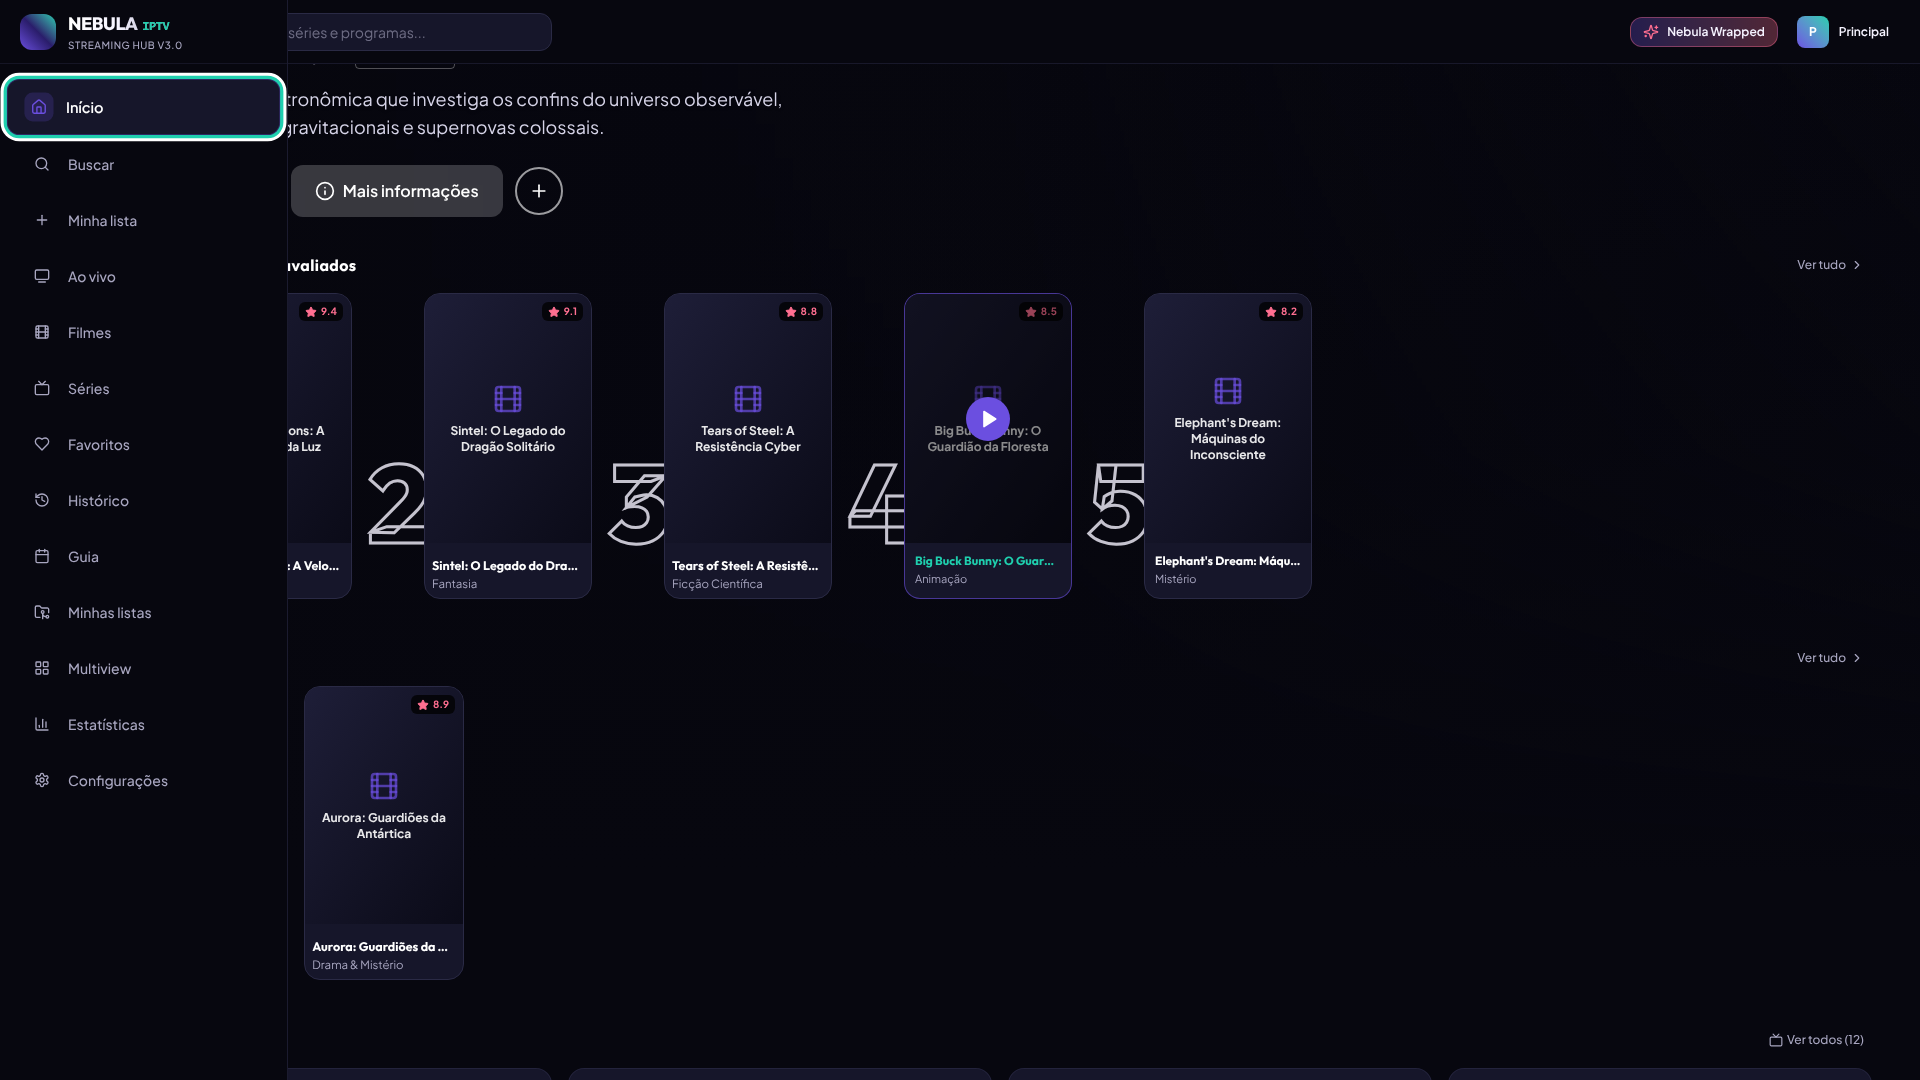
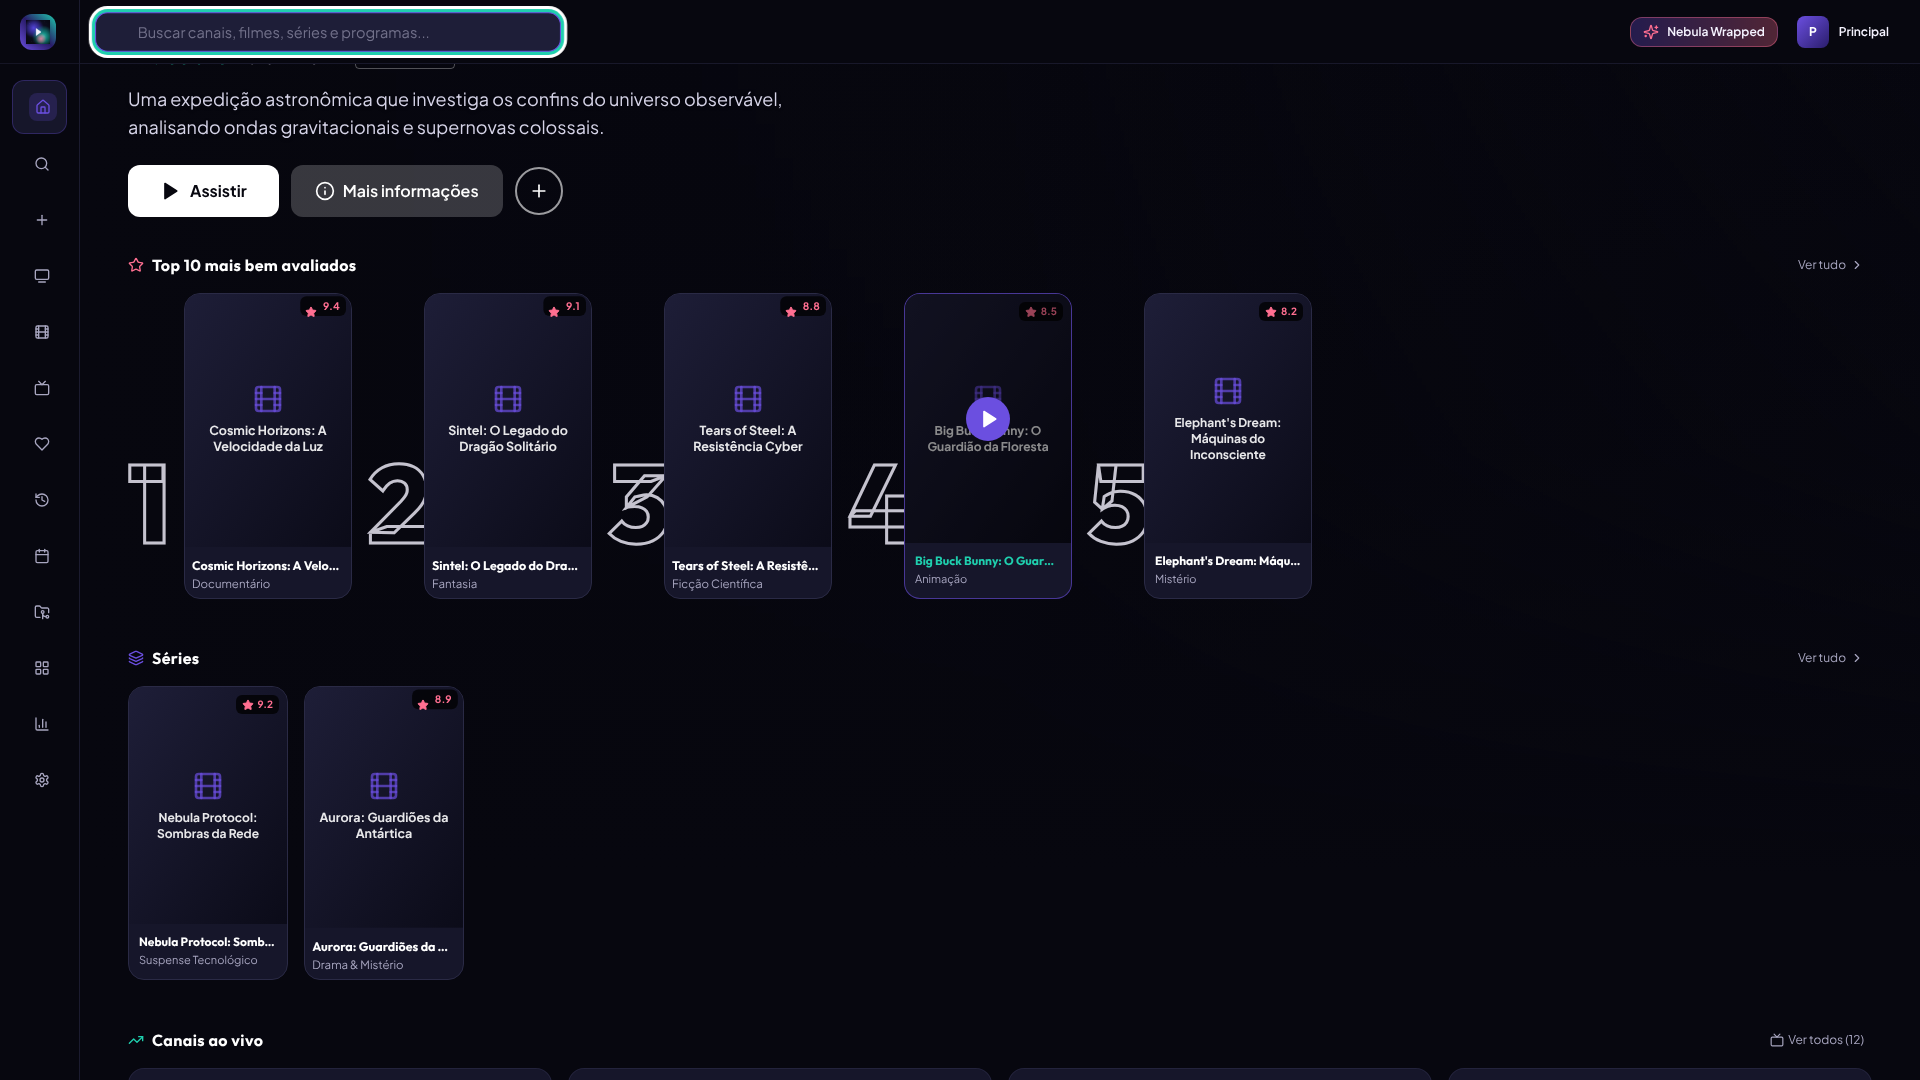
fix(android): crash on live TV, TV-scale layout, old WebView rendering
Found by running the APK on an Android TV 9 emulator (WebView 66):

- Opening a live channel crashed the app (TransactionTooLargeException):
  Capacitor stores the play() call in the saved activity state and the
  zapping list was ~580 KB. The list now goes through setQueue().
- TV WebViews report ~960 px (1080p) or 640 px wide, which triggered the
  phone layout. The TV app lays out at 1280 px, the full TV layout at a
  readable 10-foot scale.
- Posters had zero height (aspect-ratio needs Chrome 88): padding fallback.
- Buttons had a grey system background (Tailwind's :where() reset needs
  Chrome 88): plain-selector reset added.
- Built-in avatars, bundled fonts and logo: nothing depends on the network.
- Native player: no reconnect loop on decoder errors, clear messages,
  channel banner shows the grid number and programme, number keys jump to
  that channel, no duplicate buffering text.
- Remote: focus ring follows any focus change, screens focus their first
  content item, choosing a menu entry hands focus to the content.

Claude-Session: https://claude.ai/code/session_01RRsg5FGcZ64yEQf5JjpUUk

diff --git a/src/components/profiles/ProfileGate.tsx b/src/components/profiles/ProfileGate.tsx
@@ -1,3 +1,5 @@
+import nebulaIcon from '../../../assets/branding/nebula_icon.png';
+import { AVATAR_PRESETS, Avatar } from './Avatar';
 import React, { useState } from 'react';
 import { Plus, Lock, Shield, User, X, Check, Edit2, Trash2 } from 'lucide-react';
 import { useApp } from '../../context/AppContext';
@@ -15,15 +17,8 @@ export const ProfileGate: React.FC = () => {
   const [newName, setNewName] = useState('');
   const [newIsKids, setNewIsKids] = useState(false);
   const [newPin, setNewPin] = useState('');
-  const [newAvatar, setNewAvatar] = useState('https://images.unsplash.com/photo-1534528741775-53994a69daeb?w=150&auto=format&fit=crop&q=80');
-
-  const avatarOptions = [
-    'https://images.unsplash.com/photo-1534528741775-53994a69daeb?w=150&auto=format&fit=crop&q=80',
-    'https://images.unsplash.com/photo-1535713875002-d1d0cf377fde?w=150&auto=format&fit=crop&q=80',
-    'https://images.unsplash.com/photo-1566492031773-4f4e44671857?w=150&auto=format&fit=crop&q=80',
-    'https://images.unsplash.com/photo-1570295999919-56ceb5ecca61?w=150&auto=format&fit=crop&q=80',
-    'https://images.unsplash.com/photo-1507003211169-0a1dd7228f2d?w=150&auto=format&fit=crop&q=80',
-  ];
+  const [newAvatar, setNewAvatar] = useState(AVATAR_PRESETS[0]);
+  const avatarOptions = AVATAR_PRESETS;
 
   const handleProfileClick = (profile: UserProfile) => {
     if (profile.pin) {
@@ -81,7 +76,7 @@ export const ProfileGate: React.FC = () => {
       <div className="flex flex-col items-center mb-10">
         <div className="w-16 h-16 rounded-2xl bg-gradient-to-tr from-[#6B4FE0] via-[#2A1D6B] to-[#1FCFAE] p-2 flex items-center justify-center shadow-xl shadow-[#6B4FE0]/30 mb-3">
           <img
-            src="/assets/branding/nebula_icon.png"
+            src={nebulaIcon}
             alt="Nebula"
             className="w-full h-full object-contain filter drop-shadow"
             onError={(e) => {
@@ -112,11 +107,7 @@ export const ProfileGate: React.FC = () => {
             className="tv-card group flex flex-col items-center cursor-pointer focus:outline-none"
           >
             <div className="relative w-28 h-28 md:w-32 md:h-32 rounded-3xl overflow-hidden border-2 border-transparent group-hover:border-[#6B4FE0] group-hover:scale-105 group-hover:shadow-2xl group-hover:shadow-[#6B4FE0]/40 transition-all duration-300 bg-[#16162A]">
-              <img
-                src={profile.avatar}
-                alt={profile.name}
-                className="w-full h-full object-cover"
-              />
+              <Avatar avatar={profile.avatar} name={profile.name} className="w-full h-full" textClassName="text-5xl" />
 
               {/* Pin indicator */}
               {profile.pin && (
@@ -241,17 +232,17 @@ export const ProfileGate: React.FC = () => {
                 </label>
                 <div className="flex items-center gap-3">
                   {avatarOptions.map((av) => (
-                    <img
+                    <button
+                      type="button"
                       key={av}
-                      src={av}
-                      alt="Avatar"
                       onClick={() => setNewAvatar(av)}
-                      className={`w-12 h-12 rounded-xl object-cover cursor-pointer transition-all ${
-                        newAvatar === av
-                          ? 'border-2 border-[#6B4FE0] scale-110'
-                          : 'opacity-60 hover:opacity-100'
+                      data-tv-title="Escolher avatar"
+                      className={`tv-card rounded-xl overflow-hidden cursor-pointer transition-all focus:outline-none ${
+                        newAvatar === av ? 'ring-2 ring-white scale-110' : 'opacity-60 hover:opacity-100'
                       }`}
-                    />
+                    >
+                      <Avatar avatar={av} name={newName || 'N'} className="w-12 h-12" textClassName="text-lg" />
+                    </button>
                   ))}
                 </div>
               </div>

diff --git a/index.html b/index.html
@@ -2,8 +2,22 @@
 <html lang="pt-BR">
   <head>
     <meta charset="UTF-8" />
-    <link rel="icon" type="image/png" href="/assets/branding/nebula_icon.png" />
+    <link rel="icon" type="image/png" href="/favicon.png" />
     <meta name="viewport" content="width=device-width, initial-scale=1.0" />
+    <meta name="theme-color" content="#07070F" />
+    <script>
+      // TV app: TV WebViews report a small logical width (960 px on a 1080p
+      // Fire TV / Google TV), which would trigger the phone layout. Lay the UI
+      // out at 1280 px instead: full TV layout, 1.5x the desktop scale, which
+      // is readable from the sofa. The WebView scales it to the screen.
+      (function () {
+        var ua = navigator.userAgent || '';
+        var landscape = window.innerWidth >= window.innerHeight;
+        if (ua.indexOf('NebulaTV') !== -1 && landscape) {
+          document.querySelector('meta[name=viewport]').setAttribute('content', 'width=1280, user-scalable=no');
+        }
+      })();
+    </script>
     
     <title>Nebula IPTV</title>
     <meta name="description" content="A modern, responsive IPTV streaming platform featuring Live TV, VOD movies, TV series, multi-view grid, EPG timeline, playlist management (M3U & Xtream Codes), profiles, and remote/TV navigation." />
@@ -12,11 +26,6 @@
     <meta property="og:title" content="Nebula IPTV" />
     <meta property="og:description" content="A modern, responsive IPTV streaming platform featuring Live TV, VOD movies, TV series, multi-view grid, EPG timeline, playlist management (M3U & Xtream Codes), profiles, and remote/TV navigation." />
     <meta property="og:type" content="website" />
-    
-    <!-- Google Fonts Inter & Outfit -->
-    <link rel="preconnect" href="https://fonts.googleapis.com">
-    <link rel="preconnect" href="https://fonts.gstatic.com" crossorigin>
-    <link href="https://fonts.googleapis.com/css2?family=Outfit:wght@400;500;600;700;800&family=Plus+Jakarta+Sans:wght@400;500;600;700&display=swap" rel="stylesheet">
   </head>
   <body class="bg-[#07070F] text-[#F5F3FF] antialiased selection:bg-[#6B4FE0] selection:text-white">
     <div id="root"></div>

diff --git a/src/components/common/TvRemoteOverlay.tsx b/src/components/common/TvRemoteOverlay.tsx
@@ -440,6 +440,20 @@ export const TvRemoteOverlay: React.FC = () => {
   // On a real TV the physical remote is used: the on-screen simulator is only for desktop testing.
   const hideSimulator = isNativeApp() || deviceProfile.isAndroidTv;
 
+  // Focus can also arrive without the remote handler (autoFocus, touch, a
+  // modal opening): mirror it so the focus ring is always visible on TV.
+  useEffect(() => {
+    if (!tvMode) return;
+    const onFocusIn = (e: FocusEvent) => {
+      const el = e.target as HTMLElement | null;
+      if (!el || el === document.body || el.classList.contains('tv-focused')) return;
+      document.querySelectorAll('.tv-focused').forEach((prev) => prev.classList.remove('tv-focused'));
+      el.classList.add('tv-focused');
+    };
+    document.addEventListener('focusin', onFocusIn);
+    return () => document.removeEventListener('focusin', onFocusIn);
+  }, [tvMode]);
+
   // A remote has no pointer: whenever nothing is focused (app start, new screen,
   // a focused button that disappeared, closed modal), put focus on the first
   // thing the user can act on. A light watchdog covers every case.
@@ -450,8 +464,10 @@ export const TvRemoteOverlay: React.FC = () => {
       if (active && active !== document.body && document.body.contains(active)) return;
       const modal = document.querySelector<HTMLElement>('.fixed.inset-0.z-50');
       const target = modal
-        ? modal.querySelector<HTMLElement>('[autofocus], .tv-card, button')
+        ? modal.querySelector<HTMLElement>('[data-autofocus]') || modal.querySelector<HTMLElement>('[autofocus], .tv-card, button')
         : document.querySelector<HTMLElement>('main [data-autofocus]') ||
+          // Content first (cards are not <button>s), then any control.
+          document.querySelector<HTMLElement>('main .tv-card:not(button)') ||
           document.querySelector<HTMLElement>('main .tv-card, main button') ||
           // Screens without the main layout (profile picker)
           document.querySelector<HTMLElement>('[data-autofocus], .tv-card');

diff --git a/src/components/common/Navbar.tsx b/src/components/common/Navbar.tsx
@@ -11,6 +11,7 @@ import {
   Lock,
   X,
 } from 'lucide-react';
+import { Avatar } from '../profiles/Avatar';
 import { useApp } from '../../context/AppContext';
 
 export const Navbar: React.FC = () => {
@@ -28,7 +29,6 @@ export const Navbar: React.FC = () => {
 
   const [showProfileMenu, setShowProfileMenu] = useState(false);
   const [previousTab, setPreviousTab] = useState<string>('home');
-  const [avatarError, setAvatarError] = useState(false);
 
   return (
     <header className="h-16 border-b border-[#2A2A45]/50 bg-[#07070F]/80 backdrop-blur-xl px-6 flex items-center justify-between sticky top-0 z-30">
@@ -91,18 +91,7 @@ export const Navbar: React.FC = () => {
             className="flex items-center gap-2.5 p-1.5 rounded-xl hover:bg-[#16162A] border border-transparent hover:border-[#2A2A45] transition-all cursor-pointer"
           >
             <div className="relative">
-              {!avatarError && activeProfile?.avatar ? (
-                <img
-                  src={activeProfile.avatar}
-                  alt={activeProfile.name}
-                  className="w-8 h-8 rounded-lg object-cover border border-[#6B4FE0]/50"
-                  onError={() => setAvatarError(true)}
-                />
-              ) : (
-                <div className="w-8 h-8 rounded-lg bg-gradient-to-tr from-[#6B4FE0] to-[#1FCFAE] flex items-center justify-center text-white font-bold text-xs">
-                  {activeProfile?.name?.charAt(0) || 'U'}
-                </div>
-              )}
+              <Avatar avatar={activeProfile?.avatar} name={activeProfile?.name || 'U'} className="w-8 h-8 rounded-lg" textClassName="text-xs" />
               {activeProfile?.isKids && (
                 <span className="absolute -bottom-1 -right-1 w-3.5 h-3.5 bg-[#FF6F91] rounded-full border-2 border-[#07070F] flex items-center justify-center text-[8px] font-bold">
                   K

diff --git a/src/components/profiles/Avatar.tsx b/src/components/profiles/Avatar.tsx
@@ -1,0 +1,52 @@
+import React, { useState } from 'react';
+
+/** Built-in avatars: no network needed (TV boxes are often offline or blocked). */
+export const AVATAR_PRESETS = [
+  'preset:0',
+  'preset:1',
+  'preset:2',
+  'preset:3',
+  'preset:4',
+  'preset:5',
+];
+
+const GRADIENTS = [
+  'linear-gradient(135deg, #6B4FE0 0%, #2A1D6B 100%)',
+  'linear-gradient(135deg, #1FCFAE 0%, #0E6B5A 100%)',
+  'linear-gradient(135deg, #FF6F91 0%, #8A2443 100%)',
+  'linear-gradient(135deg, #FFB547 0%, #A3520C 100%)',
+  'linear-gradient(135deg, #3FA9F5 0%, #12406B 100%)',
+  'linear-gradient(135deg, #B06BFF 0%, #FF6F91 100%)',
+];
+
+function presetIndex(avatar: string | undefined, name: string): number {
+  const m = avatar?.match(/^preset:(\d+)$/);
+  if (m) return parseInt(m[1], 10) % GRADIENTS.length;
+  let h = 0;
+  for (const ch of name) h = (h * 31 + ch.charCodeAt(0)) >>> 0;
+  return h % GRADIENTS.length;
+}
+
+interface AvatarProps {
+  avatar?: string;
+  name: string;
+  className?: string;
+  textClassName?: string;
+}
+
+export const Avatar: React.FC<AvatarProps> = ({ avatar, name, className = '', textClassName = 'text-4xl' }) => {
+  const [broken, setBroken] = useState(false);
+  const isImage = !!avatar && !avatar.startsWith('preset:') && !broken;
+  if (isImage) {
+    return <img src={avatar} alt="" onError={() => setBroken(true)} className={`object-cover ${className}`} />;
+  }
+  return (
+    <div
+      className={`flex items-center justify-center font-black text-white select-none ${className}`}
+      style={{ background: GRADIENTS[presetIndex(avatar, name)] }}
+      aria-hidden
+    >
+      <span className={textClassName}>{(name.trim().charAt(0) || '?').toUpperCase()}</span>
+    </div>
+  );
+};

diff --git a/src/components/common/Sidebar.tsx b/src/components/common/Sidebar.tsx
@@ -1,3 +1,4 @@
+import nebulaIcon from '../../../assets/branding/nebula_icon.png';
 import React from 'react';
 import {
   Home,
@@ -59,7 +60,7 @@ export const Sidebar: React.FC = () => {
       <div className="h-16 px-5 flex items-center gap-3 border-b border-[#2A2A45]/40">
         <div className="w-9 h-9 rounded-xl bg-gradient-to-tr from-[#6B4FE0] via-[#2A1D6B] to-[#1FCFAE] flex items-center justify-center shadow-lg shadow-[#6B4FE0]/25 overflow-hidden p-1.5">
           <img
-            src="/assets/branding/nebula_icon.png"
+            src={nebulaIcon}
             alt="Nebula"
             className="w-full h-full object-contain filter drop-shadow"
             onError={(e) => {
@@ -88,7 +89,11 @@ export const Sidebar: React.FC = () => {
               key={item.id}
               data-tv-title={`Menu: ${item.label}`}
               data-active={isActive ? 'true' : undefined}
-              onClick={() => setActiveTab(item.id)}
+              onClick={() => {
+                setActiveTab(item.id);
+                // TV: choosing a section hands focus to its content and folds the rail.
+                if (rail) (document.activeElement as HTMLElement | null)?.blur();
+              }}
               className={`tv-card w-full flex items-center justify-between rounded-xl font-medium ${rail ? 'px-4 py-3 text-sm' : 'px-3.5 py-2.5 text-xs'} transition-all cursor-pointer group focus:outline-none ${
                 isActive
                   ? 'bg-[#16162A] text-white font-semibold shadow-inner border border-[#6B4FE0]/30'

diff --git a/src/platform/nativePlayer.ts b/src/platform/nativePlayer.ts
@@ -13,6 +13,8 @@ export interface NativeQueueItem {
   url: string;
   logoUrl?: string;
   subtitle?: string;
+  /** Channel number as shown in the channel grid (1-based). */
+  number?: number;
 }
 
 export interface NativePlayOptions {
@@ -43,7 +45,8 @@ export interface NativePlayResult {
 }
 
 interface NebulaPlayerPlugin {
-  play(options: NativePlayOptions): Promise<NativePlayResult>;
+  setQueue(options: { queue: NativeQueueItem[] }): Promise<void>;
+  play(options: Omit<NativePlayOptions, 'queue'>): Promise<NativePlayResult>;
   isVoiceSearchAvailable(): Promise<{ available: boolean }>;
   voiceSearch(): Promise<{ text: string }>;
 }
@@ -54,8 +57,11 @@ export function canUseNativePlayer(): boolean {
   return isNativeApp();
 }
 
-export function playNative(options: NativePlayOptions): Promise<NativePlayResult> {
-  return NebulaPlayer.play(options);
+export async function playNative(options: NativePlayOptions): Promise<NativePlayResult> {
+  const { queue, ...rest } = options;
+  // The channel list travels separately: see setQueue in NebulaPlayerPlugin.java.
+  await NebulaPlayer.setQueue({ queue: queue ?? [] });
+  return NebulaPlayer.play(rest);
 }
 
 /** Speech recognition through the TV's system service (Google TV / Android TV). */

diff --git a/src/index.css b/src/index.css
@@ -1,4 +1,18 @@
 @tailwind base;
+
+/* Tailwind 3.4's reset writes these with :where(), which WebViews older than
+   Chrome 88 drop entirely (buttons then get the grey system background). */
+button,
+[type='button'],
+[type='reset'],
+[type='submit'] {
+  -webkit-appearance: button;
+  background-color: transparent;
+  background-image: none;
+}
+[hidden] {
+  display: none;
+}
 @tailwind components;
 @tailwind utilities;
 
@@ -176,3 +190,17 @@ button.tv-card {
 .no-flex-gap .flex.flex-col.gap-10 > * + * { margin-top: 2.5rem; }
 .no-flex-gap .flex:not(.flex-col).gap-12 > * + *, .no-flex-gap .inline-flex.gap-12 > * + * { margin-left: 3rem; }
 .no-flex-gap .flex.flex-col.gap-12 > * + * { margin-top: 3rem; }
+
+/* CSS aspect-ratio exists from Chrome 88; older TV WebViews would collapse
+   posters to zero height. Classic padding-top boxes instead (children of
+   these boxes are absolutely positioned). */
+@supports not (aspect-ratio: 1 / 1) {
+  .aspect-\[2\/3\] {
+    height: 0;
+    padding-top: 150%;
+  }
+  .aspect-video {
+    height: 0;
+    padding-top: 56.25%;
+  }
+}

diff --git a/src/context/AppContext.tsx b/src/context/AppContext.tsx
@@ -591,6 +591,9 @@ export const AppProvider: React.FC<{ children: React.ReactNode }> = ({ children 
     [seriesAll, activePlaylistIds, isKidsProfile]
   );
 
+  // Channel numbers follow the full channel grid order (what the user sees as 01, 02…).
+  const channelNumberById = useMemo(() => new Map(filteredChannels.map((c, i) => [c.id, i])), [filteredChannels]);
+
   const categories = useMemo(
     () => Array.from(new Set(filteredChannels.map((c) => c.groupTitle || 'Geral'))).sort((a, b) => a.localeCompare(b, 'pt-BR')),
     [filteredChannels]
@@ -679,6 +682,7 @@ export const AppProvider: React.FC<{ children: React.ReactNode }> = ({ children 
       logoUrl: c.logoUrl,
       // "Now playing" line shown in the native zapping banner.
       subtitle: getChannelCurrentProgram(c.id)?.title,
+      number: (channelNumberById.get(c.id) ?? -1) + 1 || undefined,
     }));
     try {
       const res = await playNative({

diff --git a/src/data/sampleData.ts b/src/data/sampleData.ts
@@ -4,21 +4,21 @@ export const DEFAULT_PROFILES: UserProfile[] = [
   {
     id: 'prof_master',
     name: 'Principal',
-    avatar: 'https://images.unsplash.com/photo-1534528741775-53994a69daeb?w=150&auto=format&fit=crop&q=80',
+    avatar: 'preset:0',
     isKids: false,
     createdAt: new Date().toISOString(),
   },
   {
     id: 'prof_livingroom',
     name: 'Sala de Estar',
-    avatar: 'https://images.unsplash.com/photo-1535713875002-d1d0cf377fde?w=150&auto=format&fit=crop&q=80',
+    avatar: 'preset:1',
     isKids: false,
     createdAt: new Date().toISOString(),
   },
   {
     id: 'prof_kids',
     name: 'Kids',
-    avatar: 'https://images.unsplash.com/photo-1566492031773-4f4e44671857?w=150&auto=format&fit=crop&q=80',
+    avatar: 'preset:2',
     isKids: true,
     createdAt: new Date().toISOString(),
   },

diff --git a/src/components/media/PosterCard.tsx b/src/components/media/PosterCard.tsx
@@ -80,7 +80,7 @@ export const PosterCard: React.FC<PosterCardProps> = ({
             loading="lazy"
             decoding="async"
             onError={() => setBroken(true)}
-            className={`w-full h-full ${aspect === 'logo' ? 'object-contain p-4' : 'object-cover'} group-hover:scale-105 transition-transform duration-300`}
+            className={`absolute inset-0 w-full h-full ${aspect === 'logo' ? 'object-contain p-4' : 'object-cover'} group-hover:scale-105 transition-transform duration-300`}
           />
         ) : (
           <div className="absolute inset-0 flex flex-col items-center justify-center p-3 text-center gap-2">

diff --git a/src/main.tsx b/src/main.tsx
@@ -1,6 +1,13 @@
 import React from 'react';
 import ReactDOM from 'react-dom/client';
 import App from './App';
+// Fonts ship with the app: TV boxes may be offline or block Google Fonts.
+import '@fontsource/outfit/latin-500.css';
+import '@fontsource/outfit/latin-700.css';
+import '@fontsource/outfit/latin-800.css';
+import '@fontsource/plus-jakarta-sans/latin-400.css';
+import '@fontsource/plus-jakarta-sans/latin-600.css';
+import '@fontsource/plus-jakarta-sans/latin-700.css';
 import './index.css';
 
 /** Older TV WebViews (before Chrome 84) ignore `gap` on flex containers. */
